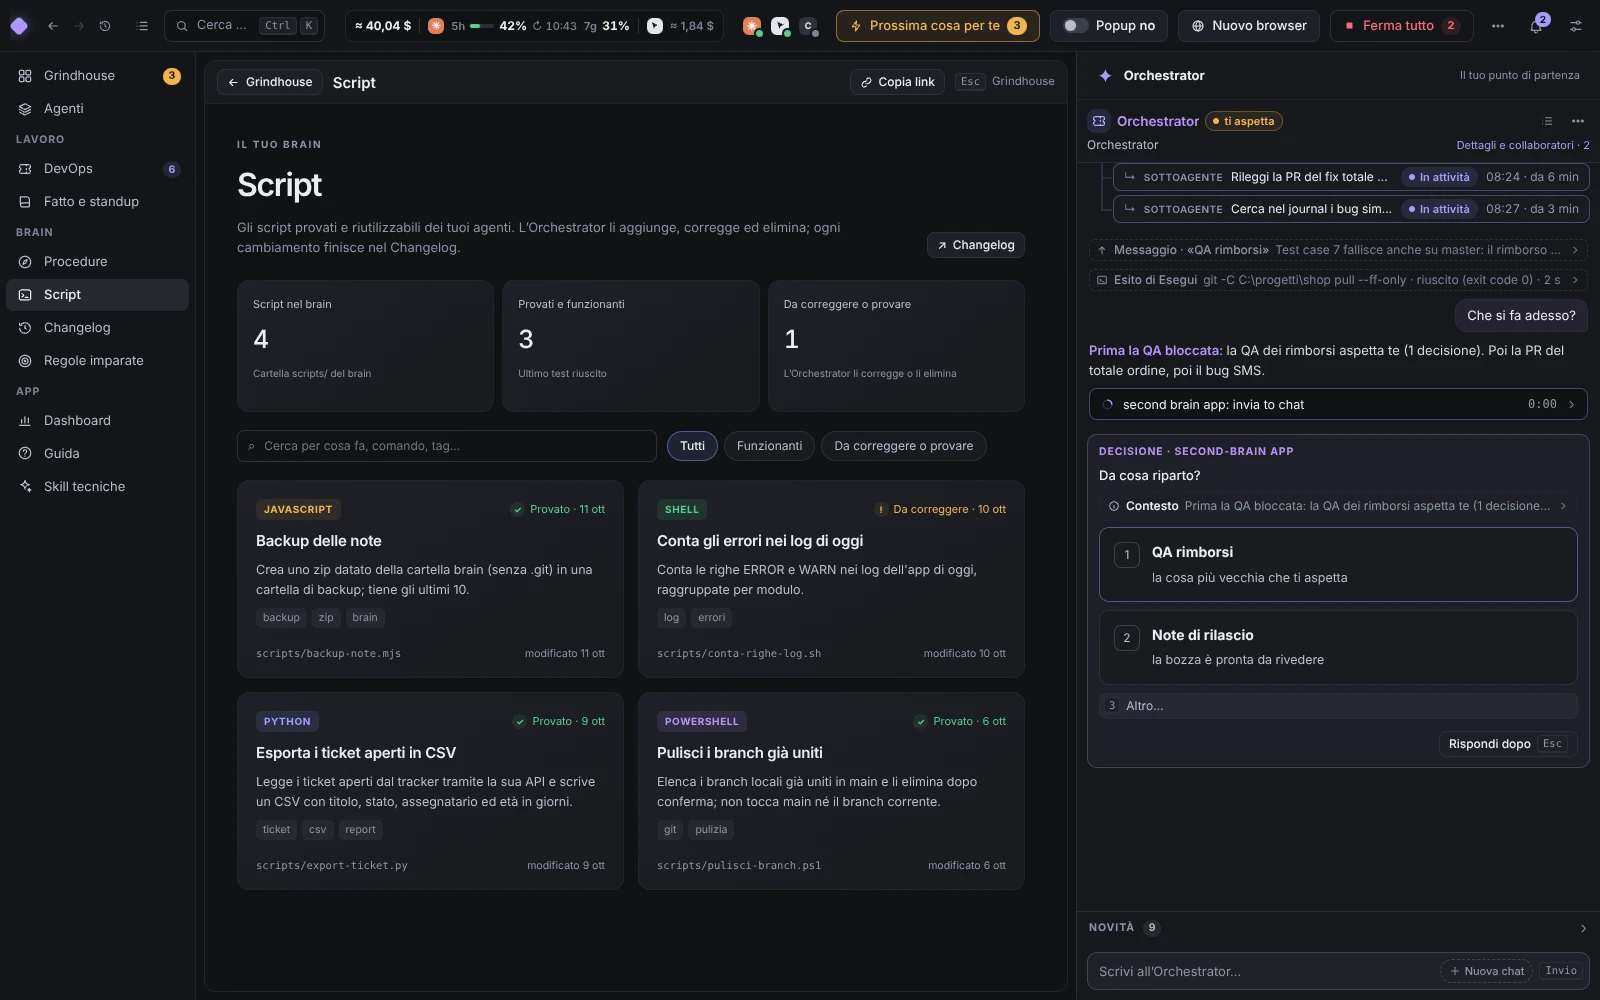
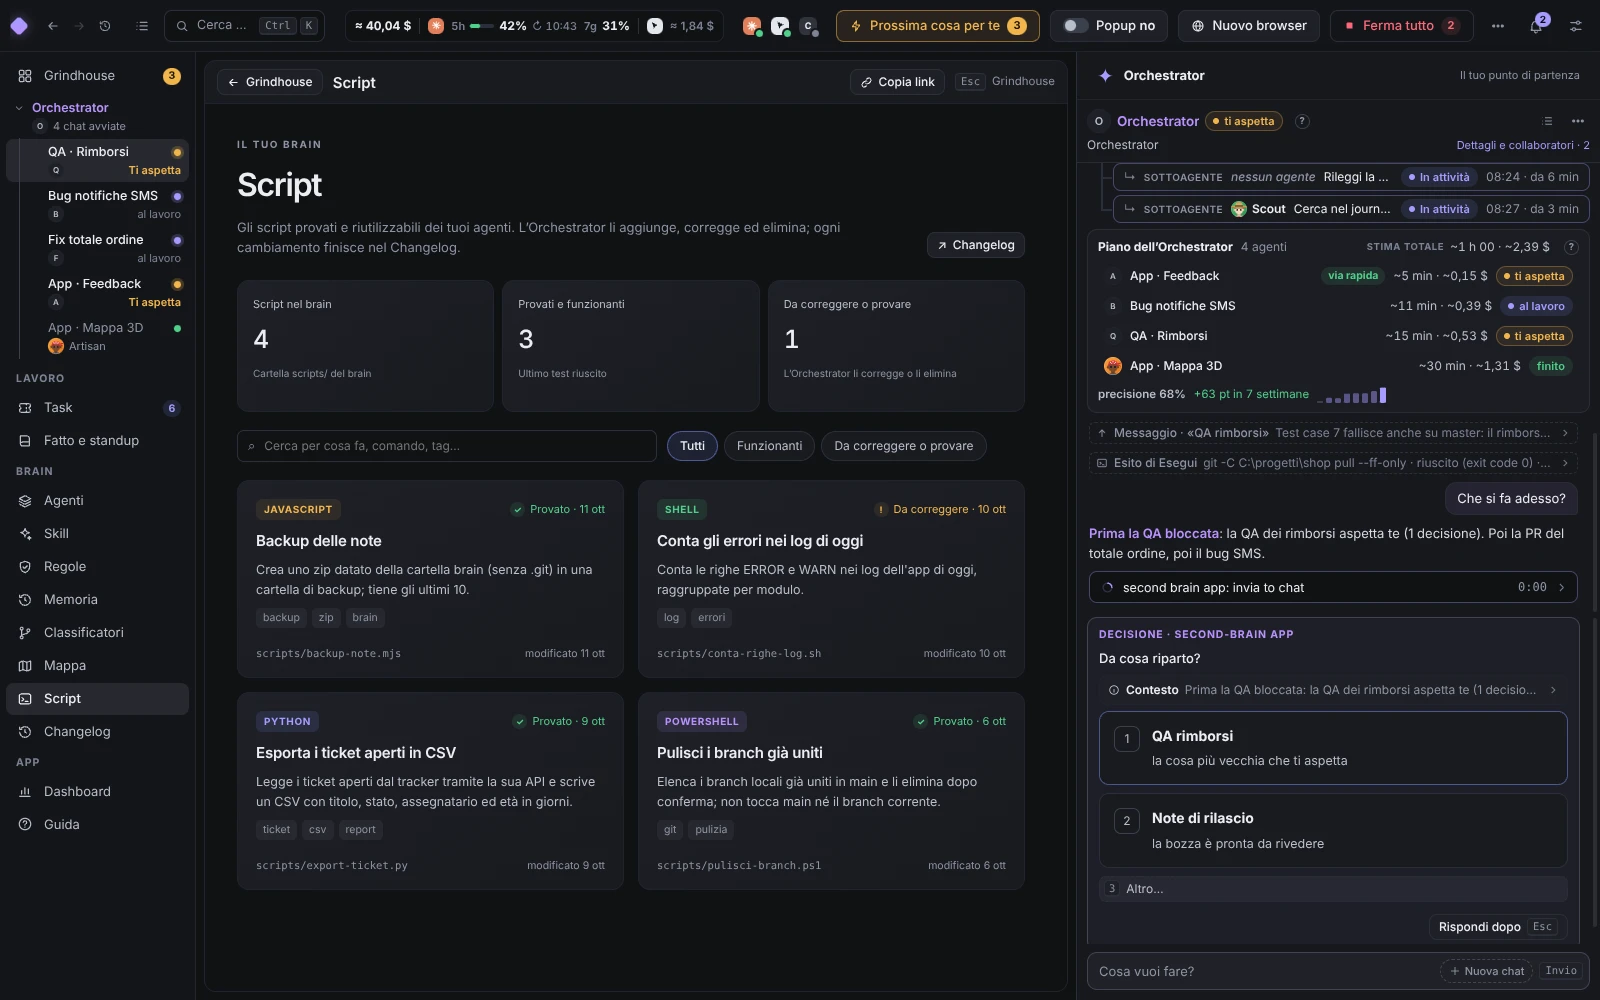
docs(readme): regenerate the screenshots and update their captions
npm run shots was broken: the notes map left the Dashboard for Brain → Mappa (ADR 0077) and the Guida cards now open as
a panel. The README shots open the map through openNotesMap, the Orchestrator shot is cut to its column (it was the
same picture as the Grindhouse), the demo's sub-agents name their roles, and the captions describe what the pictures
show now. New images pinned in .guardallow.

diff --git a/test/shots/readme.spec.ts b/test/shots/readme.spec.ts
@@ -2,12 +2,12 @@
 // scripts/demo-brain.mjs) so they always show the current UI with fictional data only: dark theme, 1600x1000, saved as
 // WebP (< 300 KB each) in docs/screenshots/. Not part of `npm run check`: run by `npm run shots`
 // (its own Playwright config, playwright.shots.config.ts). The app runs hidden (SB_HIDDEN, set by launch()).
-import { expect, test, type ElectronApplication, type Page } from '@playwright/test';
+import { expect, test, type ElectronApplication, type Locator, type Page } from '@playwright/test';
 import { createHash } from 'node:crypto';
 import fs from 'node:fs';
 import os from 'node:os';
 import path from 'node:path';
-import { launch, openOrchestrator, setSize, waitThumbs, goPage } from '../e2e/helpers';
+import { launch, openOrchestrator, openNotesMap, setSize, waitThumbs, goPage } from '../e2e/helpers';
 // @ts-expect-error plain ESM helper without types
 import { demoBrain } from '../../scripts/demo-brain.mjs';
 
@@ -29,14 +29,15 @@ test.beforeAll(async () => {
 });
 test.afterAll(async () => { await app?.close(); });
 
-/** Screenshot → WebP in the page (Chromium's encoder: no image dependency), lowering the quality until < 300 KB. */
-async function save(name: string): Promise<void> {
+/** Screenshot (of the whole window, or of one part of it) → WebP in the page (Chromium's encoder: no image dependency),
+ *  lowering the quality until < 300 KB. */
+async function save(name: string, part?: Locator): Promise<void> {
   // transient toasts ("Task aggiornati") would cover the page
   for (const x of await page.getByTestId('toast-close').all()) await x.click();
   await expect(page.getByTestId('toast')).toHaveCount(0);
   await page.mouse.move(2, 2);
   await page.waitForTimeout(300);
-  const png = await page.screenshot({ animations: 'disabled', caret: 'hide' });
+  const png = await (part ?? page).screenshot({ animations: 'disabled', caret: 'hide' });
   for (const q of [0.9, 0.82, 0.74, 0.66]) {
     const b64 = await page.evaluate(async ([data, quality]) => {
       const bytes = Uint8Array.from(atob(data as string), c => c.charCodeAt(0));
@@ -80,10 +81,11 @@ test('README screenshots', async () => {
   await goPage(page, 'home');
   await expect(page.getByTestId('view-agents')).toBeVisible();
 
-  // 2. The Orchestrator: the coordinating chat, in its column on the right, with its decision waiting
+  // 2. The Orchestrator: the coordinating chat in its column, cut out of the page: its sub-agents, its plan with the
+  // estimates, the mail between chats and the decision waiting for the user
   await openOrchestrator(page);
   await waitThumbs(page);
-  await save('orchestrator');
+  await save('orchestrator', page.getByTestId('orchestrator-overlay'));
 
   // 3. A browser driven by an agent, big next to its chat (focus mode on the chat)
   await page.getByTestId('tile-chat-qa').locator('.tile-head').click();
@@ -97,9 +99,8 @@ test('README screenshots', async () => {
   await tool('fix', { id: 'shot-read', name: 'Read', input: { file_path: 'C:\\brains\\demo\\now.md' }, summary: 'now.md' });
   await tool('fix', { id: 'shot-agent', name: 'Agent', input: { subagent_type: 'reviewer' }, summary: 'reviewer' });
   await tool('orchestrator', { id: 'shot-send', name: 'mcp__second-brain-app__app_send_to_chat', input: { chatId: 'feedback', text: 'go' }, summary: 'App · Feedback' });
-  await page.getByTestId('nav-dashboard').click();
-    await page.getByRole('tab', { name: 'Mappa brain' }).click();
-    await page.getByRole('button', { name: 'Esplora in 3D' }).click();
+  await openNotesMap(page);
+  await page.getByRole('button', { name: 'Esplora in 3D' }).click();
   await expect(page.getByTestId('brain-map').getByTestId('bx-map-canvas').locator('canvas')).toHaveCount(1, { timeout: 30_000 });
   await page.waitForTimeout(5000); // the layout settles
   await save('brain-map');

diff --git a/src/main/demo.ts b/src/main/demo.ts
@@ -113,7 +113,7 @@ export function seed(E: number): Seed {
     chat({ id: 'orchestrator', title: 'Orchestrator', isOrchestrator: true, state: 'waiting', pending: 1, costUsd: 4.12, contextTokens: 64_000, contextMaxTokens: 1_000_000, updatedAt: E - 8 * MIN, lastText: 'Prima la QA bloccata: la QA dei rimborsi aspetta te.',
       agentChildren: children(
         child({ key: 'claude:task:a1', task: 'Rileggi la PR del fix totale ordine', agentType: 'general-purpose', state: 'running', startedAt: E - 6 * MIN }),
-        child({ key: 'claude:task:a2', task: 'Cerca nel journal i bug simili ai rimborsi', state: 'running', startedAt: E - 3 * MIN }),
+        child({ key: 'claude:task:a2', task: 'Cerca nel journal i bug simili ai rimborsi', agentType: 'scout', state: 'running', startedAt: E - 3 * MIN }),
         child({ key: 'claude:task:a0', task: 'Riassumi lo stato delle chat aperte', state: 'completed', startedAt: E - 12 * MIN, observedAt: E - 9 * MIN })) }),
     chat({ id: 'qa', title: 'QA · Rimborsi', state: 'waiting', pending: 1, costUsd: 1.84, contextTokens: 118_000, contextMaxTokens: 1_000_000, cwd: 'C:\\progetti\\alfa-e2e', updatedAt: E - 4 * MIN, browserTabIds: ['tab-qa'],
       lastText: 'Ho rieseguito il test case 7 su master: stesso errore.' }),
@@ -125,7 +125,7 @@ export function seed(E: number): Seed {
         child({ key: 'claude:task:f0', task: 'Leggi le regole di sconto', state: 'completed', startedAt: E - 4 * MIN, observedAt: E - 3 * MIN })) }),
     chat({ id: 'sms', title: 'Bug notifiche SMS', harness: 'cursor', model: 'grok-4.7', effort: null, permissionMode: null, state: 'running', contextTokens: 31_000, contextEstimated: true, cwd: 'C:\\progetti\\alfa-e2e',
       updatedAt: E - 20_000, browserTabIds: ['tab-sms'], lastText: 'Riproduco il bug con il cliente di prova…',
-      agentChildren: children(child({ key: 'acp:tool:s1', nativeId: null, toolCallId: 's1', task: 'Riproduci il bug con il cliente di prova', state: 'running', startedAt: E - 50_000 })) }),
+      agentChildren: children(child({ key: 'acp:tool:s1', nativeId: null, toolCallId: 's1', task: 'Riproduci il bug con il cliente di prova', agentType: 'sentinel', state: 'running', startedAt: E - 50_000 })) }),
     chat({ id: 'feedback', title: 'App · Feedback', model: 'claude-sonnet-4-5', effort: 'medium', state: 'waiting', pending: 1, costUsd: 0.35, updatedAt: E - 2 * MIN,
       lastText: 'Lancio la suite e2e completa.' }),
     chat({ id: 'mappa', title: 'App · Mappa 3D', costUsd: 3.1, contextTokens: 172_000, contextMaxTokens: 200_000, updatedAt: E - 25 * MIN, lastText: 'v2 in main (48e6086). 14 test verdi, screenshot nel report.' }),

diff --git a/test/shots/concept-guide.spec.ts b/test/shots/concept-guide.spec.ts
@@ -1,7 +1,6 @@
 // The Guida page's screenshots for docs (docs/screenshots/concept-guide/*.png), from the frozen demo: dark theme,
-// 1600x1000, the page collapsed, one card opened («Le run degli agenti») and the search card with its «in arrivo
-// (PR #12)» part. Run with the README shots (`npm run shots`, playwright.shots.config.ts); never part of the e2e suite:
-// it writes into docs/. The app runs hidden (SB_HIDDEN, set by launch()).
+// 1600x1000, the page collapsed, one card opened («Le run degli agenti») and the search card found by the filter. Run
+// with the README shots (`npm run shots`, playwright.shots.config.ts); never part of the e2e suite: it writes into docs/. The app runs hidden (SB_HIDDEN, set by launch()).
 import { expect, test, type ElectronApplication, type Page } from '@playwright/test';
 import fs from 'node:fs';
 import path from 'node:path';
@@ -24,7 +23,7 @@ async function save(name: string): Promise<void> {
   await page.screenshot({ path: path.join(OUT, `${name}.png`), animations: 'disabled', caret: 'hide' });
 }
 
-test('Guida: collapsed, one card expanded, the search card with PR #12 coming', async () => {
+test('Guida: collapsed, one card expanded, the search card filtered', async () => {
   await page.getByTestId('nav-guida').click();
   await expect(page.getByTestId('guide-page')).toBeVisible();
   await save('guida-collapsed');
@@ -33,10 +32,11 @@ test('Guida: collapsed, one card expanded, the search card with PR #12 coming', 
   await expect(page.getByTestId('guide-body-runs')).toBeVisible();
   await page.getByTestId('guide-card-runs').evaluate(el => el.scrollIntoView({ block: 'start' }));
   await save('guida-expanded');
-  await page.getByTestId('guide-toggle-runs').click();
+  await page.keyboard.press('Escape'); // the card opens as a panel over the page
+  await expect(page.getByTestId('guide-panel')).toHaveCount(0);
 
   await page.getByTestId('guide-filter').fill('ricerca');
   await page.getByTestId('guide-toggle-search').click();
-  await expect(page.getByTestId('guide-body-search').getByTestId('guide-coming')).toContainText('PR #12');
-  await save('guida-search-coming');
+  await expect(page.getByTestId('guide-body-search')).toBeVisible();
+  await save('guida-search');
 });

diff --git a/README.md b/README.md
@@ -26,7 +26,7 @@
   <img alt="Electron 44" src="https://img.shields.io/badge/electron-44-47848F.svg">
 </p>
 
-![The Grindhouse: every agent as a strip, its questions as panels, the browser it drives right under it](docs/screenshots/grindhouse.webp)
+![The Grindhouse: the work chats as strips grouped by project, each with who started it, its estimate and the sub-agents working for it; the Orchestrator in its column on the right](docs/screenshots/grindhouse.webp)
 
 When you work with five agents at once, the bottleneck is no longer the model: it is you. Which agent is waiting on
 you? Which one is burning tokens in a loop? What did the QA agent see in its browser? second-brain puts every agent,
@@ -179,10 +179,10 @@ only its own `cursor/…`, `codex/…` or `claude/…` branch; the app never pus
 
 ### The Orchestrator: one chat that coordinates the others
 
-![The Orchestrator, in its column on the right, with a decision waiting](docs/screenshots/orchestrator.webp)
+![The Orchestrator's column: its sub-agents, its plan with each chat's estimate and state, the mail between chats and a decision waiting for you](docs/screenshots/orchestrator.webp)
 
-The Orchestrator is the chat you talk to first, always in its column on the right. It knows every agent, picks the
-right one from your catalog for each job (or proposes a new one, created only after your yes), routes mail between them
+The Orchestrator is the chat you talk to first, always in its column on the right. It knows every agent, hands each job
+to the right one of the nine roles (missing know-how becomes a new skill, never a new agent), routes mail between them
 and tells you what needs you. Model, effort and context size come from each agent's profile, never from a per-chat
 switch. News it has not received yet (a chat that finished while it waits for your answer, a quiet permission request,
 mail held for later) shows above its input as **"N novità in attesa"**; a click lists each one with its chat, kind,
@@ -190,7 +190,7 @@ since when and why it waits, at no token cost.
 
 ### Agents that improve by themselves, reversibly
 
-![The Agenti page: the catalog of agents as cards, each with its character, level, performance, runs and cost](docs/screenshots/agents.webp)
+![The Agenti page: the nine roles as cards, each with its character, level, performance, runs and cost](docs/screenshots/agents.webp)
 
 Each agent is a card with its character large in the middle, its role, engine, model, a **level** (it grows with the
 runs it ended: Lv 2 at 5, Lv 3 at 15, Lv 4 at 30…) and a **performance %** (the average of the verdicts on its runs,
@@ -201,12 +201,12 @@ Settings, the Skill page). Every role has its own cartoon character (a conductor
 for the Scout, a judge in a wig…), recognisable from the 16 px tree to the 96 px role page. Agents learn from cost, time, outcome and your corrections: the Orchestrator and the
 maintenance jobs change an agent's model, effort or instructions by themselves, as a trial version measured against
 the previous one, and every change is in the log with "Annulla". Only what reaches further waits for your yes in
-**Agenti → Da approvare**: an agent's tools, permissions and engine, and new agents. An agent exports to a colleague
+**Agenti → Da approvare**: an agent's tools, permissions and engine. An agent exports to a colleague
 with its profile, its skills, the tools they call and the brain's rules, never your memory.
 
 ### Browsers your agents drive
 
-![A QA agent's browser tab, big next to its chat](docs/screenshots/browser.webp)
+![A QA chat in focus mode: its question as a panel, the browser tab it drives big next to it](docs/screenshots/browser.webp)
 
 Agents get real browser tabs inside the app through a local MCP server: navigate, click, type, read the page, take
 screenshots, with trusted input like a real user. Each tab sits next to the agent that owns it. Logins persist per
@@ -215,7 +215,7 @@ passwords.
 
 ### A live map of your brain
 
-![The 3D brain map, lit where the agents are working right now](docs/screenshots/brain-map.webp)
+![Brain → Mappa, the 3D map: notes, agents and tools, lit where the agents are working right now](docs/screenshots/brain-map.webp)
 
 Your brain is a folder of Markdown notes the agents read and write: open threads, journal, ideas, the errors they made
 and the rules learned from them. A fresh brain starts empty: the app's own rules and tools stay inside the app
@@ -234,7 +234,7 @@ and Memoria runs them now and says what each did; every change is logged with "A
 
 ### Scripts and a changelog for your brain
 
-![The Script page: tested, reusable scripts as cards](docs/screenshots/brain-scripts.webp)
+![The Script page: the brain's tested, reusable scripts as cards, with their language, last test and file](docs/screenshots/brain-scripts.webp)
 
 The scripts your agents wrote and tested live in the brain's `scripts/` folder, each with what it does, how to run it
 and its last test. Every chat can look them up before writing a new one; the Orchestrator adds, fixes and deletes them
@@ -243,7 +243,7 @@ page in the Brain section (ADR 0076). Nothing in the app runs a script.
 
 ### Task in one page
 
-![The Task page: mentions, pull requests, reviews and work items](docs/screenshots/task.webp)
+![The Task page: what to read, your pull requests, reviews and work items, each with Discuti](docs/screenshots/task.webp)
 
 Mentions, comments and votes on your pull requests, reviews waiting for you, stuck work items, failed builds and the QA
 status of each pull request, imported from Azure DevOps on demand or automatically (zero tokens, read only). Every item
@@ -253,7 +253,7 @@ what, who (you, or the agent or engine of a chat), when and its link.
 
 ### MCP servers in one place, for every engine
 
-![Settings → Connettori: accounts and MCP servers as cards](docs/screenshots/connectors.webp)
+![Settings → Connettori: the MCP servers your agents use, as cards with state, tools, roles and the fix when one fails](docs/screenshots/connectors.webp)
 
 Settings → **Connettori** is one section for everything the app connects to: the app's own accounts (Azure DevOps for
 the Task page, GitHub, Jira) and the **MCP servers your agents use** (ADR 0086). Add a server once (a local command such
@@ -267,7 +267,7 @@ none, and a delegated chat never gets more than its parent. The engines' own con
 
 ### Quality you can measure
 
-![The Qualità page: four metrics with their source and dates](docs/screenshots/quality.webp)
+![The Qualità page: measured metrics, each with its source, the days it covers and the rows behind it](docs/screenshots/quality.webp)
 
 Four metrics computed from real logs, each with its source and the days it covers: errors you had to catch yourself
 per 100 turns, rules that did not stop their error, pull requests held by QA or builds, bugs reopened after a fix.
